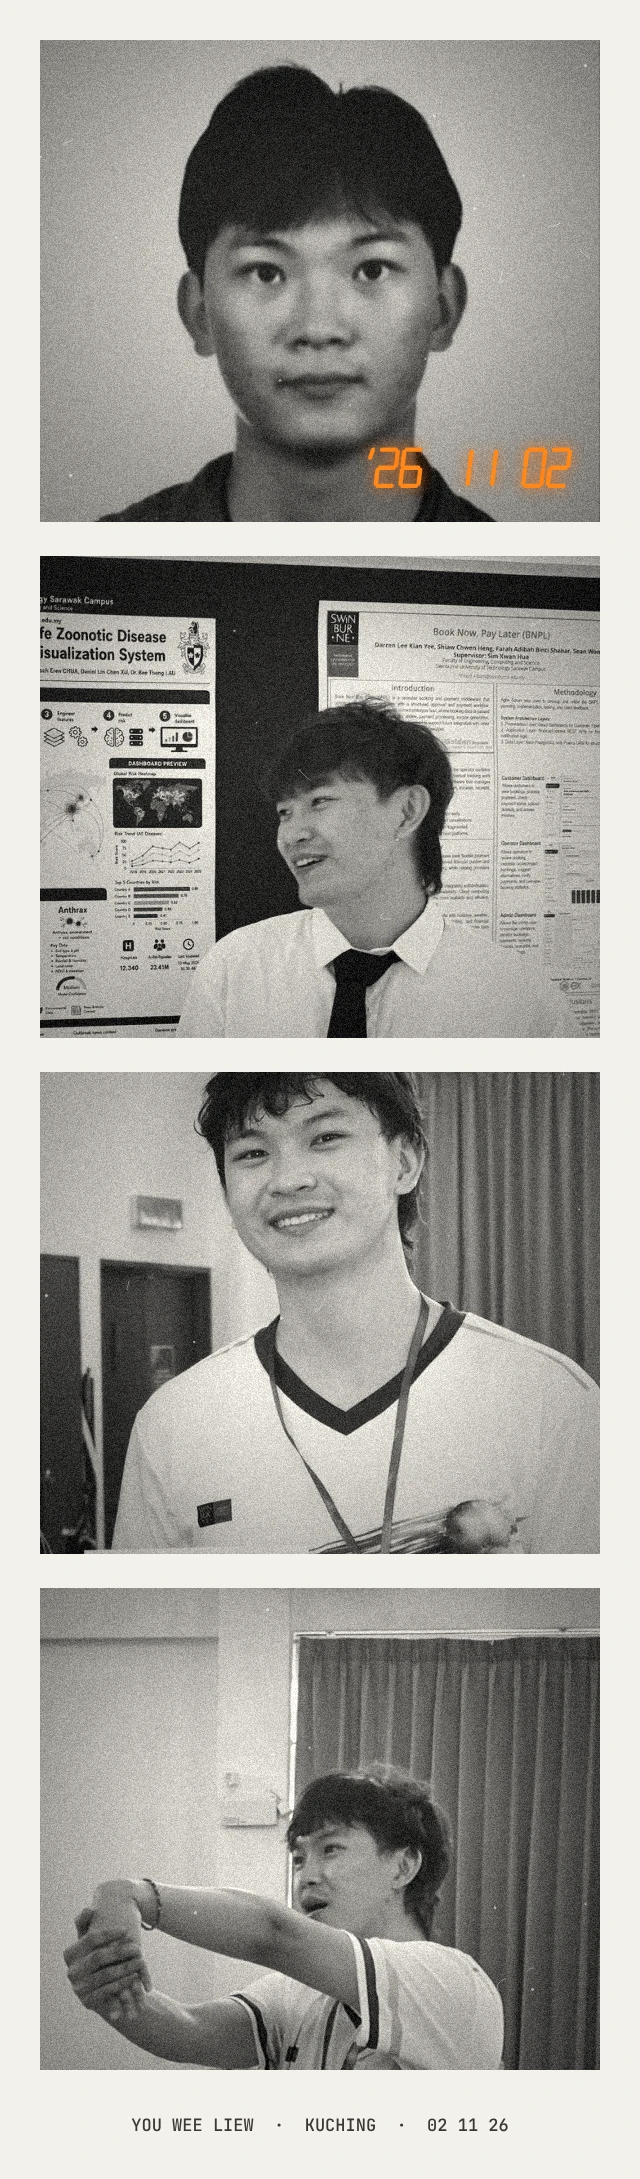
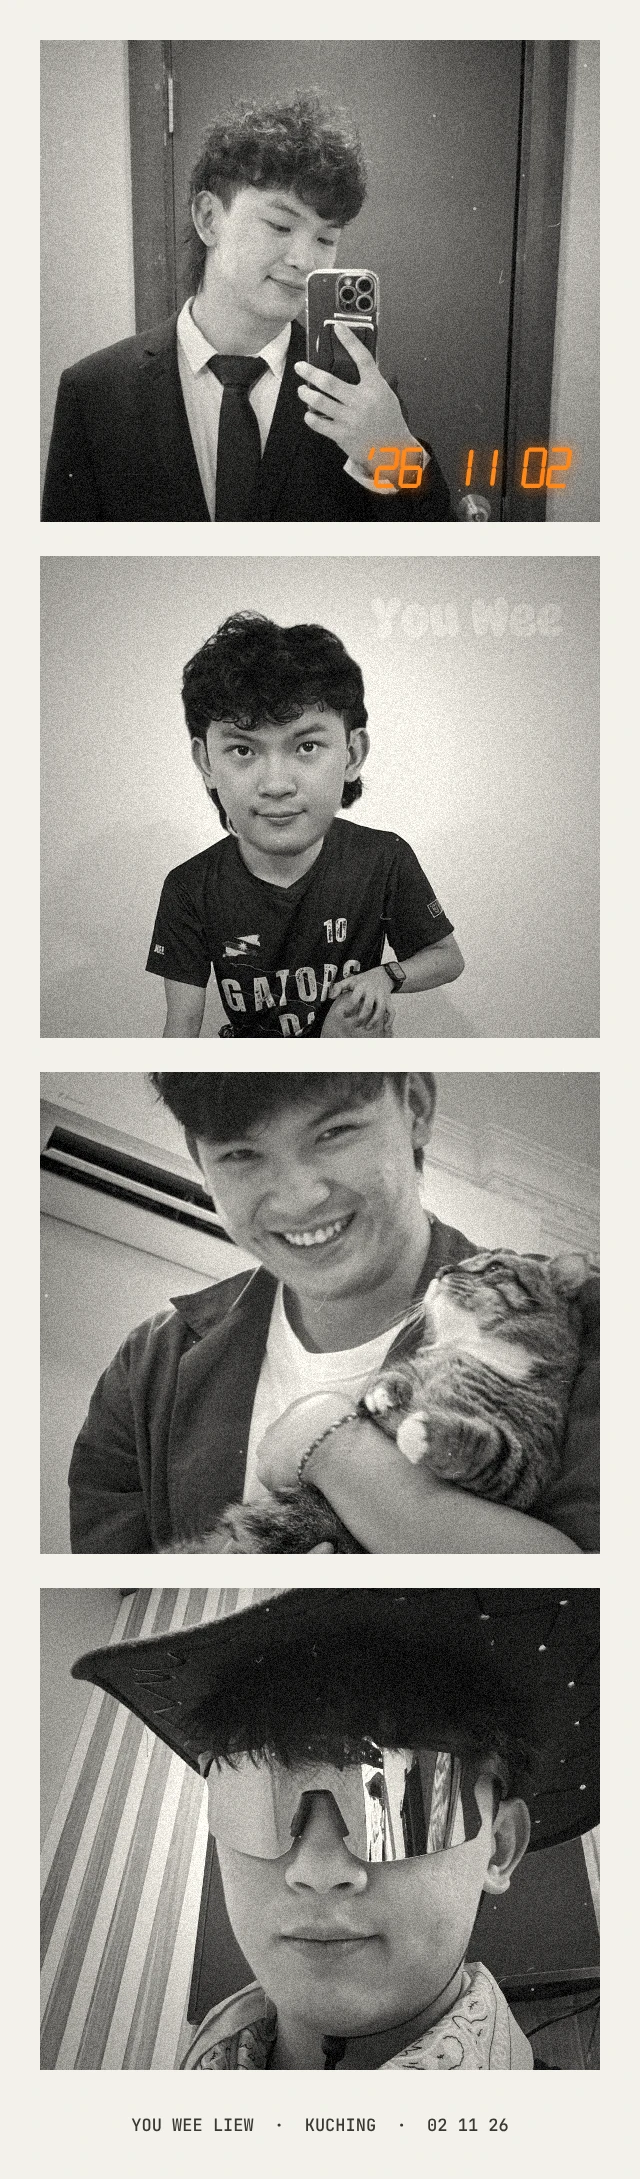
Photobooth strip: the four sittings are the suit, the vice president, the cat and the cowboy
The flash strip, its black-and-white develop and the contact strip now use
four photos supplied by You Wee (resized, metadata stripped). The flash
caption names the new sittings. The black-and-white develop now keeps
colour only in the date imprint's corner, so orange in a photo (the red
bracelet in the cat frame) no longer stays in colour.

Claude-Session: https://claude.ai/code/session_016nJieuj3hz1PRLzcMUTyK7

diff --git a/tools/bake/manifest.js b/tools/bake/manifest.js
@@ -21,6 +21,10 @@ const PHOTOS = {
   pitch: 'memories/uriis-pitch.jpg',
   game: 'memories/game.jpg',
   team: 'memories/outreach-team.jpg',
+  suit: 'strip/suit.jpg',
+  vicePresident: 'strip/vice-president.jpg',
+  cat: 'strip/cat.jpg',
+  cowboy: 'strip/cowboy.jpg',
   spexMap: 'projects/spex-map.jpg',
   kacha: 'projects/kacha-camera.jpg',
   herbarium: 'projects/herbarium.jpg',
@@ -33,11 +37,16 @@ export const loadPhotos = async () => Object.fromEntries(
   await Promise.all(Object.entries(PHOTOS).map(async ([key, file]) => [key, await loadImage(IMG + file)])),
 );
 
+// The photobooth strip's four sittings (the owner's own photos), in the order
+// he gave them. Crops: the suit selfie keeps face and phone; the vice-president
+// shot keeps face, jersey and its "You Wee" lettering (the vertical "Vice
+// President" falls outside); the cat photo keeps both faces and leaves the
+// air-conditioner badge out; the cowboy keeps the hat brim and the bandana.
 const memoryFrames = (p) => [
-  { image: p.portrait, zoom: 1.0, focusX: 0.5, focusY: 0.44 },
-  { image: p.poster, zoom: 1.75, focusX: 0.75, focusY: 0.4 },
-  { image: p.certificate, zoom: 1.0, focusX: 0.5, focusY: 0.3 },
-  { image: p.coaching, zoom: 1.0, focusX: 0.5, focusY: 0.31 },
+  { image: p.suit, zoom: 1.1, focusX: 0.45, focusY: 0.37 },
+  { image: p.vicePresident, zoom: 1.6, focusX: 0.55, focusY: 0.36 },
+  { image: p.cat, zoom: 1.25, focusX: 0.6, focusY: 0.4 },
+  { image: p.cowboy, zoom: 1.0, focusX: 0.5, focusY: 0.45 },
 ];
 
 const cutOut = (source, { pad = 28, seed = 3 } = {}) => {
@@ -564,10 +573,8 @@ export const TEXTURES = {
 
   // --- contact
   'strip-contact': {
-    make: (p) => photoStrip([
-      { image: p.coaching, focusY: 0.31 }, { image: p.certificate, focusY: 0.3 },
-      { image: p.poster, zoom: 1.75, focusX: 0.75, focusY: 0.4 }, { image: p.portrait, focusY: 0.44 },
-    ], { look: 'color', stamp: "'26 11 02", seed: 9 }),
+    // The same four sittings as the flash strip, last one first.
+    make: (p) => photoStrip([...memoryFrames(p)].reverse(), { look: 'color', stamp: "'26 11 02", seed: 9 }),
   },
   // The contact note sits between the strip and the links; its ballpoint arrow
   // leaves the note's left end and hooks up and left, at the email.

diff --git a/site/js/engine/paper3d.js b/site/js/engine/paper3d.js
@@ -46,6 +46,7 @@ const DEVELOP_MAP = /* glsl */ `
   vec4 sampledDiffuseColor = texture2D( map, vMapUv );
   float developed = 1.0;
   float inPhoto = 0.0;
+  float stampZone = 0.0; // the date imprint sits in a frame's lower-right corner
   for (int i = 0; i < DEV_COUNT; i++) {
     vec4 r = uRects[i];
     vec2 size = max(r.zw - r.xy, vec2(1e-4));
@@ -55,11 +56,14 @@ const DEVELOP_MAP = /* glsl */ `
     float reveal = clamp(uDevelop[i] * 1.8 - (1.0 - local.y) * 0.45 - wave, 0.0, 1.0);
     developed = mix(developed, reveal * reveal * (3.0 - 2.0 * reveal), inside);
     inPhoto = max(inPhoto, inside);
+    stampZone = max(stampZone, inside * step(0.55, local.x) * step(local.y, 0.3));
   }
   devPhotoMask = inPhoto;
   vec3 photo = sampledDiffuseColor.rgb;
   float photoLuma = dot(photo, vec3(0.2126, 0.7152, 0.0722));
-  float imprint = smoothstep(0.55, 0.75, photo.r - photo.b) * smoothstep(0.7, 0.9, photo.r);
+  // Only the orange imprint keeps its colour in black and white, not any
+  // orange in the photo itself (a red bracelet, say).
+  float imprint = smoothstep(0.55, 0.75, photo.r - photo.b) * smoothstep(0.7, 0.9, photo.r) * stampZone;
   photo = mix(photo, vec3(photoLuma), uMono * inPhoto * (1.0 - imprint));
   vec3 haze = mix(uHaze, uHaze * (0.8 + 0.4 * photoLuma), uLatent);
   sampledDiffuseColor.rgb = mix(haze, photo, developed);

diff --git a/site/index.html b/site/index.html
@@ -44,7 +44,7 @@
         <p class="count" data-count="2">1</p>
         <p class="count smile hand" data-count="3">smile!</p>
       </div>
-      <p class="flash-caption hand" data-reveal="flash-caption">four&nbsp;sittings: ID&nbsp;photo, SPEX&nbsp;poster, outreach&nbsp;cert, warm-up&nbsp;coach</p>
+      <p class="flash-caption hand" data-reveal="flash-caption">four&nbsp;sittings: the&nbsp;suit, the&nbsp;vice&nbsp;president, the&nbsp;cat, the&nbsp;cowboy</p>
       <canvas class="flash-veil" data-flash-veil aria-hidden="true"></canvas>
     </div>
   </section>

diff --git a/workbench/brief.md b/workbench/brief.md
@@ -48,6 +48,15 @@ Stored in `site/assets/img/memories/`, resized, metadata stripped. The two schoo
 | `game.jpg` | Gators DC match, mid-dive |
 | `outreach-team.jpg` | Outreach dodgeball facilitators team photo |
 
+**Photobooth strip (user's choice, 2026-11-04).** The four frames of every strip (the flash strip, its black-and-white develop, and the contact strip, which runs them last-first) are these, in `site/assets/img/strip/`, resized with metadata stripped:
+
+| File | What it shows |
+|---|---|
+| `suit.jpg` | You Wee's mirror selfie in a black suit and tie |
+| `vice-president.jpg` | You Wee kneeling by a red dodgeball in a Gators DC #10 jersey; the photo's own lettering reads "Vice President" and "You Wee" |
+| `cat.jpg` | You Wee smiling, holding a tabby cat |
+| `cowboy.jpg` | You Wee in a cowboy hat, mirrored sports sunglasses and a pink paisley bandana |
+
 ## Process (from the user's brief)
 
 Raw three.js, vendored, importmap, no build. One smooth scroll value drives DOM and WebGL. Chapters render to their own HDR targets; one composite pass. Builder and critic are separate agents; the critic captures from a frozen snapshot and names the single biggest gap. Progress lives in `workbench/`.
